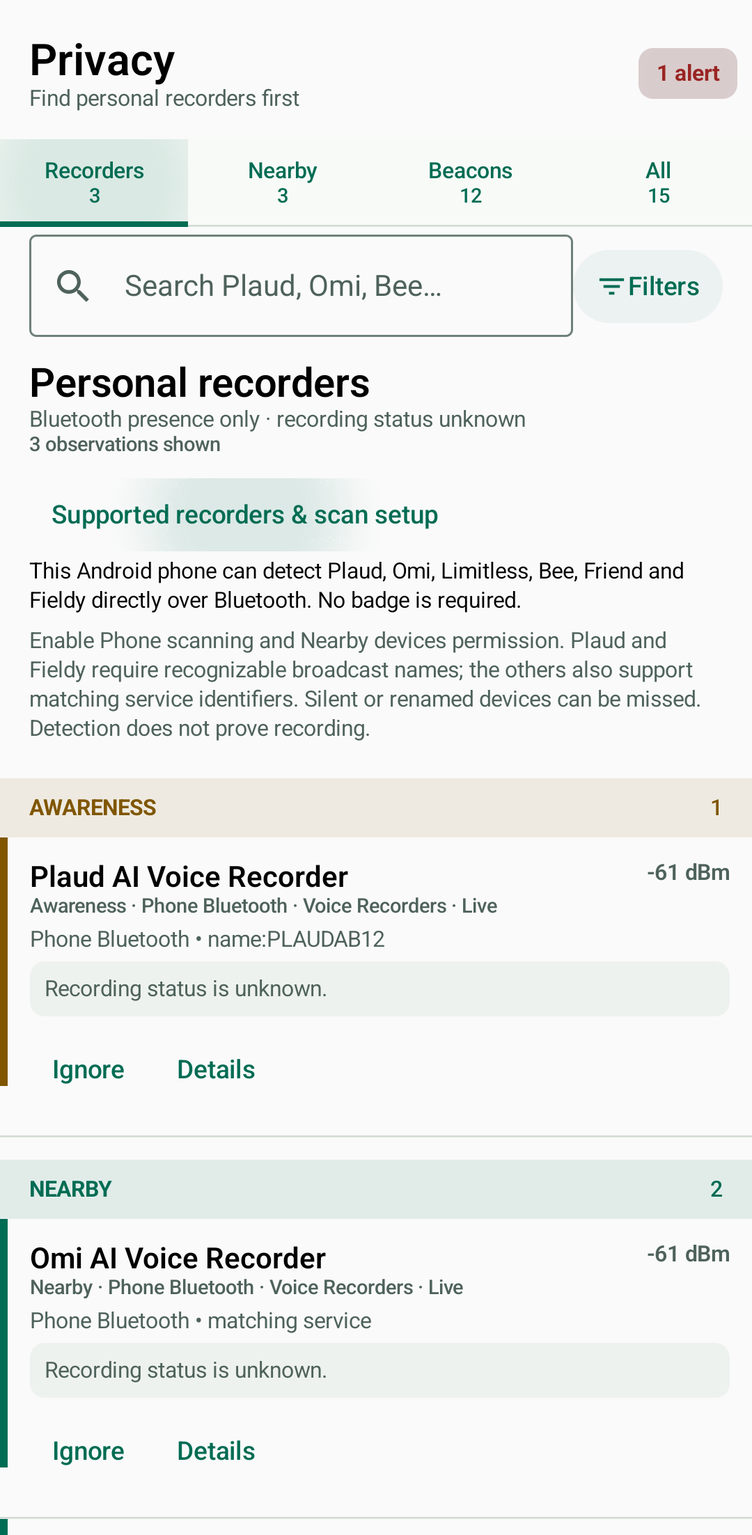
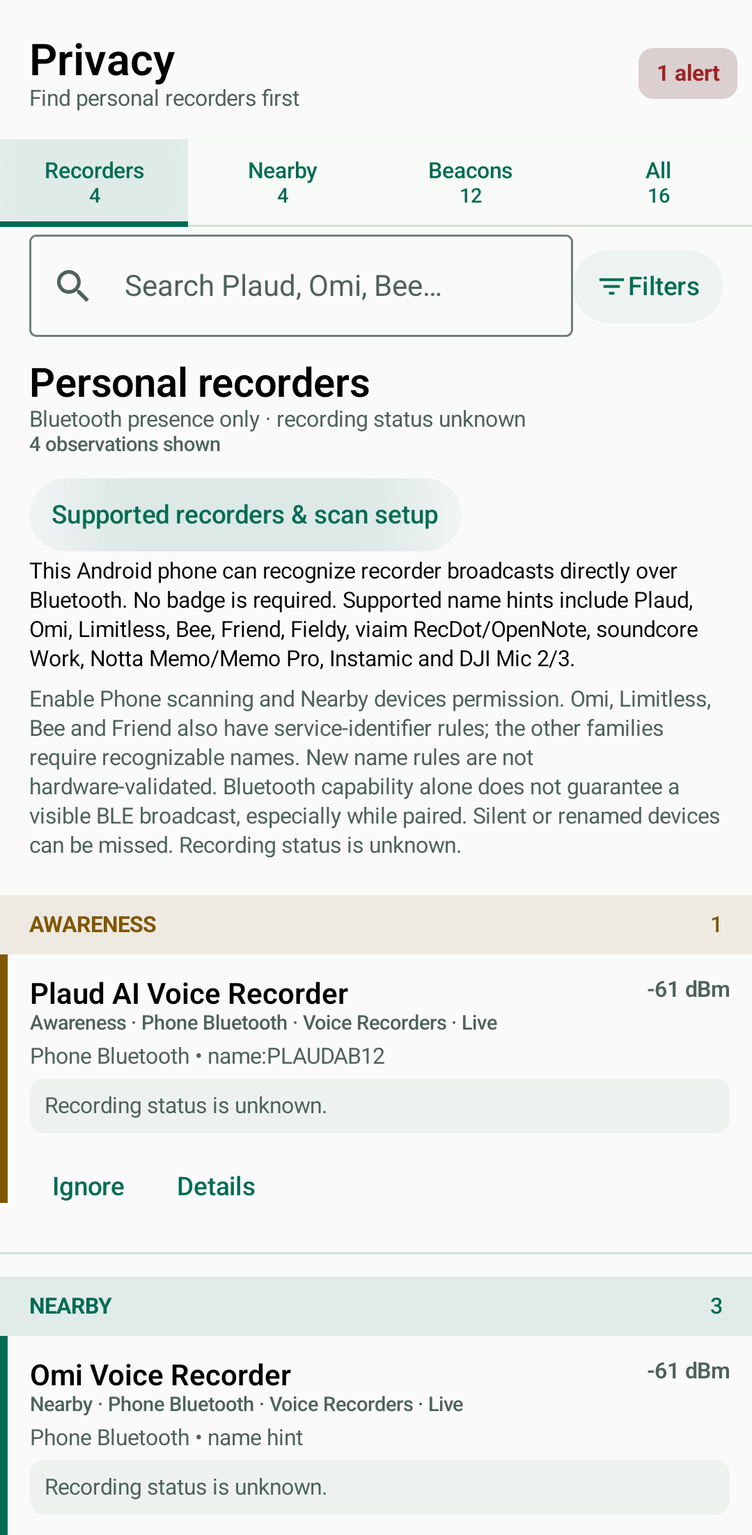
privacy: recognize more personal audio recorder families

Changed region(s): [[0.0, 0.3084, 1.0, 1.0]]

diff --git a/android/app/src/test/java/com/friendorfoe/detection/PersonalRecorderSignaturesTest.kt b/android/app/src/test/java/com/friendorfoe/detection/PersonalRecorderSignaturesTest.kt
@@ -7,7 +7,19 @@ class PersonalRecorderSignaturesTest {
     @Test fun `recorder names use boundaries and ignore case`() {
         val examples = mapOf("PLAUDAB12" to "Plaud", "PLAUD NOTE" to "Plaud", "Plaud Note Pro" to "Plaud",
             "NotePin_123" to "Plaud", "omi" to "Omi", "Limitless Pendant" to "Limitless",
-            "Bee_AB12" to "Bee", "friend_123" to "Friend", "Fieldy" to "Fieldy")
+            "Bee_AB12" to "Bee", "friend_123" to "Friend", "Fieldy" to "Fieldy",
+            "viaim RecDot" to "viaim",
+            "VIAIM OpenNote" to "viaim",
+            "soundcore Work" to "soundcore",
+            "soundcore Work_AB12" to "soundcore",
+            "Notta Memo" to "Notta",
+            "Notta Memo Pro" to "Notta",
+            "Instamic BLE" to "Instamic",
+            "Instamic 01" to "Instamic",
+            "DJI-MIC2-123456" to "DJI",
+            "DJI-MIC3-1234" to "DJI",
+            "DJI Mic 2" to "DJI",
+            "DJI Mic 3" to "DJI")
         for ((name, brand) in examples) {
             assertEquals(name, brand, PersonalRecorderSignatures.match(name)?.manufacturer)
         }
@@ -16,13 +28,44 @@ class PersonalRecorderSignaturesTest {
 
     @Test fun `unrelated names and shared UUIDs do not match`() {
         for (name in listOf("Pebblebee", "Beech", "Beeline", "Friend", "Friendly Speaker",
-            "Pendant", "Compass", "My PLAUD phone", "Plaudify", "Fieldyard", "OMIRON")) {
+            "Pendant", "Compass", "My PLAUD phone", "Plaudify", "Fieldyard", "OMIRON",
+            "viaim",
+            "viaim Air",
+            "viaim Nano+",
+            "viaim RecDotty",
+            "soundcore",
+            "soundcore Liberty 4",
+            "soundcore Workout",
+            "Anker",
+            "Notta",
+            "Notta Memories",
+            "Instamicrophone",
+            "DJI",
+            "DJI Mini 3",
+            "DJI-MIC20",
+            "DJI-MIC30",
+            "DJI-MICX-XXXX",
+            "DJI Mic Mini",
+            "Zoom",
+            "F2",
+            "F2(1)",
+            "Looki",
+            "Looki L1")) {
             assertNull(name, PersonalRecorderSignatures.match(name))
         }
         for (uuid in listOf("00001910-0000-1000-8000-00805f9b34fb",
             "4fafc201-1fb5-459e-8fcc-c5c9c331914b", "0000180f-0000-1000-8000-00805f9b34fb")) {
             assertNull(PersonalRecorderSignatures.match(null, listOf(uuid)))
         }
+    }
+
+    @Test fun `microphone model overrides only DJI company evidence`() {
+        val mic = PersonalRecorderSignatures.match("DJI-MIC2-123456")!!
+        assertTrue(PersonalRecorderSignatures.shouldReplace(mic, 0.80f, "DJI", "mfr_cid:0x0413"))
+        assertFalse(PersonalRecorderSignatures.shouldReplace(mic, 0.90f, "DJI", "name:DJI-Mavic"))
+        assertFalse(PersonalRecorderSignatures.shouldReplace(mic, 0.90f, "Apple", "airtag_separated"))
+        assertFalse(PersonalRecorderSignatures.shouldReplace(mic, 0.90f, "Meta", "uuid16:0xFEAA"))
+        assertTrue(PersonalRecorderSignatures.shouldReplace(mic, 0f, "", ""))
     }
 
     @Test fun `custom services detect unnamed devices and beat mutable names`() {

diff --git a/android/app/src/androidTest/java/com/friendorfoe/presentation/privacy/PrivacyScreenTest.kt b/android/app/src/androidTest/java/com/friendorfoe/presentation/privacy/PrivacyScreenTest.kt
@@ -37,9 +37,9 @@ class PrivacyScreenTest {
             finding(FindingSeverity.NEARBY, "beacon$index", category = PrivacyCategory.VENUE_BEACON).copy(
                 title = "iBeacon $index", beaconUuid = "00112233-4455-6677-8899-aabbccddeeff")
         }
-        val otherRecorders = listOf("Omi", "Bee").map { brand ->
+        val otherRecorders = listOf("Omi", "Bee", "Instamic").map { brand ->
             finding(FindingSeverity.NEARBY, brand.lowercase(), category = PrivacyCategory.VOICE_RECORDER).copy(
-                title = "$brand AI Voice Recorder", evidence = "Phone Bluetooth • matching service",
+                title = "$brand Voice Recorder", evidence = "Phone Bluetooth • name hint",
                 limitation = "Recording status is unknown.")
         }
         val current = PrivacyCurrentState(emptyList(), listOf(recorder) + otherRecorders + beacons, 1, emptyList(), true)
@@ -64,7 +64,11 @@ class PrivacyScreenTest {
         compose.onNodeWithTag("finding_plaud").assertIsDisplayed()
         compose.onNodeWithTag("privacy_filters").performClick()
         compose.onNodeWithText("Live only").performClick()
-        compose.onNodeWithTag("privacy_brand_Plaud").performClick()
+        compose.onNodeWithTag("privacy_brand_Instamic").performScrollTo().performClick()
+        compose.runOnIdle { assertEquals("Instamic", filters.value.query) }
+        compose.onNodeWithTag("finding_instamic").assertExists()
+        saveBeaconScreenshot("recorders-new-brand-filter.png")
+        compose.onNodeWithTag("privacy_brand_Plaud").performScrollTo().performClick()
         compose.onNodeWithTag("finding_plaud").assertExists()
         compose.runOnIdle { assertEquals("Plaud", filters.value.query) }
         compose.onNodeWithTag("privacy_focus_RECORDERS").assertIsDisplayed()
@@ -78,8 +82,8 @@ class PrivacyScreenTest {
         compose.onNodeWithTag("finding_plaud").assertExists()
         compose.onNodeWithTag("privacy_tree_beacons").assertDoesNotExist()
         compose.onNodeWithTag("recorder_coverage").performClick()
-        compose.onNodeWithTag("privacy_content").performScrollToNode(hasText("This Android phone can detect", substring = true))
-        compose.onNodeWithText("This Android phone can detect", substring = true).assertIsDisplayed()
+        compose.onNodeWithTag("privacy_content").performScrollToNode(hasText("This Android phone can recognize", substring = true))
+        compose.onNodeWithText("This Android phone can recognize", substring = true).assertIsDisplayed()
         saveBeaconScreenshot("recorders-phone-coverage.png")
         compose.onNodeWithTag("privacy_content").performScrollToNode(hasTestTag("recorder_coverage"))
         compose.onNodeWithTag("recorder_coverage").performClick()

diff --git a/android/app/src/main/java/com/friendorfoe/presentation/privacy/PrivacyScreen.kt b/android/app/src/main/java/com/friendorfoe/presentation/privacy/PrivacyScreen.kt
@@ -2,6 +2,7 @@ package com.friendorfoe.presentation.privacy
 
 import androidx.compose.animation.AnimatedVisibility
 import android.app.Activity
+import com.friendorfoe.detection.PersonalRecorderSignatures
 import com.friendorfoe.presentation.components.FofDisclosure
 import android.bluetooth.BluetoothAdapter
 import android.content.Intent
@@ -651,7 +652,7 @@ private fun PrivacySearchAndFilters(
                 if (state.filters.focus == PrivacyFocus.RECORDERS) {
                     Text("Recorder brand", style = MaterialTheme.typography.labelMedium)
                     Row(Modifier.fillMaxWidth().horizontalScroll(rememberScrollState()), horizontalArrangement = Arrangement.spacedBy(8.dp)) {
-                        listOf("Plaud", "Omi", "Limitless", "Bee", "Friend", "Fieldy").forEach { brand ->
+                        PersonalRecorderSignatures.brands.forEach { brand ->
                             val selected = state.filters.query.equals(brand, ignoreCase = true)
                             FilterChip(selected = selected,
                                 onClick = { actions.onQueryChanged(if (selected) "" else brand) },
@@ -1072,9 +1073,9 @@ private fun RecorderCoverage() {
             Text("Supported recorders & scan setup")
         }
         if (expanded) {
-            Text("This Android phone can detect Plaud, Omi, Limitless, Bee, Friend and Fieldy directly over Bluetooth. No badge is required.",
+            Text("This Android phone can recognize recorder broadcasts directly over Bluetooth. No badge is required. Supported name hints include Plaud, Omi, Limitless, Bee, Friend, Fieldy, viaim RecDot/OpenNote, soundcore Work, Notta Memo/Memo Pro, Instamic and DJI Mic 2/3.",
                 style = MaterialTheme.typography.bodySmall)
-            Text("Enable Phone scanning and Nearby devices permission. Plaud and Fieldy require recognizable broadcast names; the others also support matching service identifiers. Silent or renamed devices can be missed. Detection does not prove recording.",
+            Text("Enable Phone scanning and Nearby devices permission. Omi, Limitless, Bee and Friend also have service-identifier rules; the other families require recognizable names. New name rules are not hardware-validated. Bluetooth capability alone does not guarantee a visible BLE broadcast, especially while paired. Silent or renamed devices can be missed. Recording status is unknown.",
                 modifier = Modifier.padding(vertical = 8.dp), style = MaterialTheme.typography.bodySmall,
                 color = MaterialTheme.colorScheme.onSurfaceVariant)
         }

diff --git a/android/app/src/main/java/com/friendorfoe/detection/PersonalRecorderSignatures.kt b/android/app/src/main/java/com/friendorfoe/detection/PersonalRecorderSignatures.kt
@@ -13,7 +13,20 @@ internal object PersonalRecorderSignatures {
         Signature("Bee", listOf("bee"), "03d5d5c4-a86c-11ee-9d89-8f2089a49e7e"),
         Signature("Friend", listOf("friend_"), "1a3fd0e7-b1f3-ac9e-2e49-b647b2c4f8da"),
         Signature("Fieldy", listOf("fieldy"), null),
+        Signature("viaim", listOf("viaim recdot", "viaim opennote"), null),
+        Signature("soundcore", listOf("soundcore work"), null),
+        Signature("Notta", listOf("notta memo"), null),
+        Signature("Instamic", listOf("instamic"), null),
+        Signature("DJI", listOf("dji-mic2", "dji-mic3", "dji mic 2", "dji mic 3"), null),
     )
+
+    val brands: List<String> = signatures.map { it.brand }
+
+    // A model-specific microphone name is more useful than DJI's company-only hint.
+    // This exception only applies to company evidence; other matches retain confidence ordering.
+    fun shouldReplace(match: Match, confidence: Float, manufacturer: String, reason: String): Boolean =
+        match.confidence > confidence || (match.manufacturer == "DJI" &&
+            manufacturer == "DJI" && reason.startsWith("mfr_cid:"))
 
     fun match(name: String?, services: List<String> = emptyList()): Match? {
         for (signature in signatures) {

diff --git a/android/app/src/main/java/com/friendorfoe/detection/GlassesDetector.kt b/android/app/src/main/java/com/friendorfoe/detection/GlassesDetector.kt
@@ -1692,7 +1692,7 @@ class GlassesDetector @Inject constructor(
         PersonalRecorderSignatures.match(deviceName,
             serviceUuids.orEmpty().map { it.uuid.toString() } +
                 serviceData.orEmpty().keys.map { it.uuid.toString() })?.let { match ->
-            if (match.confidence > bestConf) {
+            if (PersonalRecorderSignatures.shouldReplace(match, bestConf, bestMfr, bestReason)) {
                 bestConf = match.confidence
                 bestMfr = match.manufacturer
                 bestType = "AI Voice Recorder"

diff --git a/esp32/test/test_detection_policy.c b/esp32/test/test_detection_policy.c
@@ -1154,7 +1154,19 @@ void test_ble_meta_reacquire_requires_scan_sync_and_adv_delta(void)
 void test_ble_personal_recorder_names(void)
 {
     const char *names[] = {"PLAUDAB12", "PLAUD NOTE", "Plaud Note Pro", "NotePin_123", "omi",
-        "Limitless Pendant", "Bee_AB12", "friend_123", "Fieldy"};
+        "Limitless Pendant", "Bee_AB12", "friend_123", "Fieldy",
+        "viaim RecDot",
+        "VIAIM OpenNote",
+        "soundcore Work",
+        "soundcore Work_AB12",
+        "Notta Memo",
+        "Notta Memo Pro",
+        "Instamic BLE",
+        "Instamic 01",
+        "DJI-MIC2-123456",
+        "DJI-MIC3-1234",
+        "DJI Mic 2",
+        "DJI Mic 3"};
     for (size_t i = 0; i < sizeof(names) / sizeof(names[0]); i++) {
         uint8_t adv[64] = {0};
         size_t len = strlen(names[i]);
@@ -1167,13 +1179,56 @@ void test_ble_personal_recorder_names(void)
         TEST_ASSERT_FALSE(fp.is_tracker);
         TEST_ASSERT_EQUAL(0, strncmp(fp.class_reason, "recorder:name:", 14));
     }
+    /* Company-only DJI hints must not turn a microphone into a drone controller. */
+    const char *mic = "DJI-MIC2-123456";
+    const uint16_t companies[] = {0x08AA, 0x2CA5};
+    for (size_t i = 0; i < sizeof(companies) / sizeof(companies[0]); i++) {
+        uint8_t adv[64] = {5, 0xff, companies[i] & 0xff, companies[i] >> 8, 0, 0};
+        size_t len = strlen(mic);
+        adv[6] = (uint8_t)(len + 1);
+        adv[7] = 0x09;
+        memcpy(adv + 8, mic, len);
+        ble_fingerprint_t fp;
+        ble_fingerprint_compute(adv, (int)len + 8, 1, 0, &fp);
+        TEST_ASSERT_EQUAL(BLE_DEV_AI_RECORDER, fp.device_type);
+        TEST_ASSERT_EQUAL_STRING("recorder:name:DJI", fp.class_reason);
+        ble_fingerprint_compute(adv, 6, 1, 0, &fp);
+        TEST_ASSERT_NOT_EQUAL(BLE_DEV_AI_RECORDER, fp.device_type);
+        /* Explicit Find My service evidence remains a tracker, even with this name. */
+        adv[len + 8] = 3; adv[len + 9] = 0x03;
+        adv[len + 10] = 0x44; adv[len + 11] = 0xFD;
+        ble_fingerprint_compute(adv, (int)len + 12, 1, 0, &fp);
+        TEST_ASSERT_NOT_EQUAL(BLE_DEV_AI_RECORDER, fp.device_type);
+    }
     TEST_ASSERT_TRUE(fof_policy_is_priority_ble_fingerprint("AI Voice Recorder"));
 }
 
 void test_ble_personal_recorder_false_positives(void)
 {
     const char *names[] = {"Pebblebee", "Beeline", "Beech", "Friend", "Friendly Speaker",
-        "Pendant", "Compass", "My PLAUD phone", "Plaudify", "Fieldyard", "OMIRON"};
+        "Pendant", "Compass", "My PLAUD phone", "Plaudify", "Fieldyard", "OMIRON",
+        "viaim",
+        "viaim Air",
+        "viaim Nano+",
+        "viaim RecDotty",
+        "soundcore",
+        "soundcore Liberty 4",
+        "soundcore Workout",
+        "Anker",
+        "Notta",
+        "Notta Memories",
+        "Instamicrophone",
+        "DJI",
+        "DJI Mini 3",
+        "DJI-MIC20",
+        "DJI-MIC30",
+        "DJI-MICX-XXXX",
+        "DJI Mic Mini",
+        "Zoom",
+        "F2",
+        "F2(1)",
+        "Looki",
+        "Looki L1"};
     for (size_t i = 0; i < sizeof(names) / sizeof(names[0]); i++) {
         uint8_t adv[64] = {0};
         size_t len = strlen(names[i]);

diff --git a/backend/tests/test_personal_recorders.py b/backend/tests/test_personal_recorders.py
@@ -10,6 +10,18 @@ from app.services.rf_identity import enrich_rf_evidence
     ("NotePin_123", "Plaud"), ("plaud-ab12", "Plaud"),
     ("omi", "Omi"), ("Limitless Pendant", "Limitless"),
     ("Bee_AB12", "Bee"), ("friend_1234", "Friend"), ("Fieldy", "Fieldy"),
+    ("viaim RecDot", "viaim"),
+    ("VIAIM OpenNote", "viaim"),
+    ("soundcore Work", "soundcore"),
+    ("soundcore Work_AB12", "soundcore"),
+    ("Notta Memo", "Notta"),
+    ("Notta Memo Pro", "Notta"),
+    ("Instamic BLE", "Instamic"),
+    ("Instamic 01", "Instamic"),
+    ("DJI-MIC2-123456", "DJI"),
+    ("DJI-MIC3-1234", "DJI"),
+    ("DJI Mic 2", "DJI"),
+    ("DJI Mic 3", "DJI"),
 ])
 def test_recorder_name_and_presentation(name, brand):
     match = match_personal_recorder(name)
@@ -22,6 +34,7 @@ def test_recorder_name_and_presentation(name, brand):
     rf = enrich_rf_evidence(source="ble_fingerprint", ble_name=name)
     assert rf["device_class"] == "voice_recorder"
     assert rf["device_family"] == "audio"
+    assert rf["brand"] == brand
 
 
 @pytest.mark.parametrize("uuid,brand", [
@@ -43,6 +56,28 @@ def test_custom_uuid_without_name_and_with_conflicting_name(uuid, brand):
 @pytest.mark.parametrize("name", [
     None, "", "Pebblebee", "Beech", "Beeline", "OMIRON", "Friend", "Friendly Speaker",
     "Pendant", "Compass", "My PLAUD phone", "Plaudify", "Fieldyard", "LimitlessTV",
+    "viaim",
+    "viaim Air",
+    "viaim Nano+",
+    "viaim RecDotty",
+    "soundcore",
+    "soundcore Liberty 4",
+    "soundcore Workout",
+    "Anker",
+    "Notta",
+    "Notta Memories",
+    "Instamicrophone",
+    "DJI",
+    "DJI Mini 3",
+    "DJI-MIC20",
+    "DJI-MIC30",
+    "DJI-MICX-XXXX",
+    "DJI Mic Mini",
+    "Zoom",
+    "F2",
+    "F2(1)",
+    "Looki",
+    "Looki L1",
 ])
 def test_unrelated_names_do_not_match(name):
     assert match_personal_recorder(name) is None

diff --git a/esp32/scanner/main/detection/ble_fingerprint.c b/esp32/scanner/main/detection/ble_fingerprint.c
@@ -198,6 +198,15 @@ static const char *recorder_name_brand(const char *name)
         {"bee", "Bee"},
         {"friend_", "Friend"},
         {"fieldy", "Fieldy"},
+        {"viaim recdot", "viaim"},
+        {"viaim opennote", "viaim"},
+        {"soundcore work", "soundcore"},
+        {"notta memo", "Notta"},
+        {"instamic", "Instamic"},
+        {"dji-mic2", "DJI"},
+        {"dji-mic3", "DJI"},
+        {"dji mic 2", "DJI"},
+        {"dji mic 3", "DJI"},
     };
     while (*name == ' ') name++;
     if (strlen(name) == 9 && strncasecmp(name, "plaud", 5) == 0 &&
@@ -1009,7 +1018,11 @@ void ble_fingerprint_compute(const uint8_t *data, int length,
 
     /* Do not replace tracker/drone/glasses evidence with a mutable name. */
     const char *name_brand = recorder_name_brand(local_name);
-    if (recorder_brand || (name_brand && fp->device_type == BLE_DEV_UNKNOWN)) {
+    /* DJI's company-only controller classification is not model evidence. */
+    bool dji_mic_name = name_brand && strcmp(name_brand, "DJI") == 0 &&
+        fp->device_type == BLE_DEV_DRONE_CONTROLLER && fp->class_reason[0] == '\0' &&
+        (company_id == DJI_COMPANY_ID || company_id == DJI_SIG_COMPANY_ID);
+    if (recorder_brand || (name_brand && fp->device_type == BLE_DEV_UNKNOWN) || dji_mic_name) {
         fp->device_type = BLE_DEV_AI_RECORDER;
         fp->is_tracker = false;
         snprintf(fp->class_reason, sizeof(fp->class_reason), "recorder:%s:%s",

diff --git a/backend/app/services/personal_recorders.py b/backend/app/services/personal_recorders.py
@@ -13,6 +13,11 @@ _SIGNATURES = [
     ("Bee", ["bee"], "03d5d5c4-a86c-11ee-9d89-8f2089a49e7e"),
     ("Friend", ["friend_"], "1a3fd0e7-b1f3-ac9e-2e49-b647b2c4f8da"),
     ("Fieldy", ["fieldy"], None),
+    ("viaim", ["viaim recdot", "viaim opennote"], None),
+    ("soundcore", ["soundcore work"], None),
+    ("Notta", ["notta memo"], None),
+    ("Instamic", ["instamic"], None),
+    ("DJI", ["dji-mic2", "dji-mic3", "dji mic 2", "dji mic 3"], None),
 ]
 _UUID_RE = re.compile(r"(?<![0-9a-z])[0-9a-f]{8}(?:-[0-9a-f]{4}){3}-[0-9a-f]{12}(?![0-9a-z])", re.I)
 

diff --git a/docs/personal-ai-recorders.md b/docs/personal-ai-recorders.md
@@ -10,8 +10,13 @@ Android BLE scanning, ESP32 fingerprinting/badge awareness, and backend RF ident
 | Bee | `Bee` | `03d5d5c4-a86c-11ee-9d89-8f2089a49e7e` |
 | Friend pendant | `friend_` | `1a3fd0e7-b1f3-ac9e-2e49-b647b2c4f8da` |
 | Fieldy | `Fieldy` | None used alone |
+| viaim RecDot / OpenNote | `viaim RecDot`, `viaim OpenNote` | Name hint only |
+| soundcore Work | `soundcore Work` | Name hint only |
+| Notta Memo / Memo Pro | `Notta Memo` (also covers the Pro suffix) | Name hint only |
+| Instamic | `Instamic` (including `Instamic BLE`, numbered devices) | Name hint only |
+| DJI Mic 2 / Mic 3 | `DJI-MIC2`, `DJI-MIC3`, `DJI Mic 2`, `DJI Mic 3` | Name hint only |
 
-Names must end after the listed token or continue with a space, hyphen, or underscore (the `friend_` prefix already includes its separator). `PLAUD` followed immediately by four alphanumeric serial-suffix characters is also recognized, consistent with the [Plaud interoperability protocol notes](https://github.com/naeemarsalan/opendict/blob/main/PLAUD_BLE_Protocol_Specification.md). Name-only evidence has confidence 0.75; custom service evidence has confidence 0.90. Service evidence wins over a conflicting recorder name. Firmware keeps existing tracker/drone/glasses classifications over name-only hints. These confidence scores are heuristic, not measured detection rates.
+Names must end after the listed token or continue with a space, hyphen, or underscore (the `friend_` prefix already includes its separator). `PLAUD` followed immediately by four alphanumeric serial-suffix characters is also recognized, consistent with the [Plaud interoperability protocol notes](https://github.com/naeemarsalan/opendict/blob/main/PLAUD_BLE_Protocol_Specification.md). Name-only evidence has confidence 0.75; custom service evidence has confidence 0.90. Service evidence wins over a conflicting recorder name. Firmware keeps existing tracker/drone/glasses classifications over name-only hints, except that a specific DJI microphone name replaces the generic DJI company-only controller guess. Android likewise prefers that model hint to its DJI company-only camera guess. These confidence scores are heuristic, not measured detection rates.
 
 ## Evidence and limits
 
@@ -23,15 +28,27 @@ Only advertised service lists or service-data UUIDs can be detected passively. A
 
 Presence does **not** establish active recording, audio content, uploading, wearer identity, or malicious intent. UI details explicitly leave recording status unknown. No connection, pairing, microphone access, or recording command is performed.
 
-Other candidates for future capture-based signatures include HiDock/HiNotes, iFLYTEK, Mobvoi TicNote, soundcore Work, and Senstone. They are not classified by guessed names or shared chipset identifiers.
+### Additional name rules (2026-10-13)
+
+These are conservative **name heuristics, not hardware-validated BLE signatures**. Documentation can show an app label or a classic Bluetooth pairing name without establishing the actual BLE local name. The rules only run if a matching name reaches the scanner; no new manufacturer IDs, service UUIDs, or claim of always-on discoverability is introduced.
+
+- viaim documents [RecDot/OpenNote connection names](https://store.viaim.ai/blogs/user-guide/how-to-connect-your-viaim-earbuds) and [onboard recording](https://store.viaim.ai/blogs/user-guide/recording-guide-to-viaim-earbuds). Only those model names match; bare viaim, Air and Nano+ do not.
+- soundcore's [Work connection guide](https://service.soundcore.com/article-description/How-do-I-connect-the-soundcore-Work-recorder-to-the-soundcore-app) shows the app discovery label. This is not a captured BLE advertising name. Ordinary soundcore headphones and Anker devices do not match.
+- Notta's [connection troubleshooting](https://support.notta.ai/hc/en-us/articles/37703235998235-Troubleshooting-Unable-to-find-Notta-Memo-in-the-Notta-App) documents the Memo system name; its [binding guide](https://support.notta.ai/hc/en-us/articles/38026112614683-Bind-and-Activate-an-AI-Voice-Recorder-Mobile-App) includes Memo Pro. A device connected to another phone may not appear.
+- Instamic's [configuration guide](https://zoomcorp.com/media/documents/Instamic_Configuration_Modes_and_Profiles_rev.202510.pdf) shows `Instamic BLE` and numbered names. Users can rename units. Bluetooth audio streaming and local recording are separate modes.
+- DJI's [Mic 2 manual](https://dl.djicdn.com/downloads/DJI_Mic_2/UM_/DJI_Mic_2__User_Manual_V1.0_EN.pdf) shows `DJI-MIC2-XXXXXX`; the [Mic 3 manual](https://dl.djicdn.com/downloads/DJI%20Mic%203/202604/DJI_MIC3_um_en.pdf) uses the schematic `DJI-MICX-XXXX`. We recognize model 2/3 name hints, not literal placeholder X or arbitrary DJI devices. Mic 3's on-air name still needs capture validation. These pairing examples do not prove passive BLE visibility. Mic 2 cannot internally record while connected to a smartphone over Bluetooth. DJI Mic Mini is excluded from the standalone-recorder rules.
+
+Looki L1 remains unsupported: no reliable passive identifier was established, and its [FAQ](https://support.looki.ai/hc/en-001/articles/49659915480217-General-FAQs) says paired units are undiscoverable to another phone. Zoom F2-BT also awaits a capture: its [control manual](https://zoomcorp.com/documents/1857/E_F2_Control_.pdf) shows generic `F2` / `F2(1)` labels that are not distinctive enough. Neither a marketing model name nor Bluetooth capability alone establishes a signature. Tascam DR-10L Pro (optional Bluetooth adapter), HiDock/HiNotes, iFLYTEK, Mobvoi TicNote and Senstone remain capture candidates.
+
+Before claiming physical-device coverage, capture BLE advertisements with units unpaired, paired, idle and recording. Include full/short local names, advertised services and manufacturer payloads, and document which modes expose no usable signal.
 
 ## Maintenance
 
-Keep `PersonalRecorderSignatures.kt`, `personal_recorders.py`, and the recorder helpers in `ble_fingerprint.c` aligned. Tests cover all six families, custom UUID byte order, complete/incomplete/service-data advertisements, truncation, close UUID mismatches, ambiguous names and services, backend presentation, and badge awareness. Hardware validation should capture advertisements in pairing, idle, recording, and connected states before claiming model-specific coverage.
+Keep `PersonalRecorderSignatures.kt`, `personal_recorders.py`, and the recorder helpers in `ble_fingerprint.c` aligned. Tests cover all eleven families, custom UUID byte order, complete/incomplete/service-data advertisements, truncation, close UUID mismatches, ambiguous names and services, backend presentation, and badge awareness. Hardware validation should capture advertisements in pairing, idle, recording, and connected states before claiming model-specific coverage.
 
 ## Android browsing (v0.67.31)
 
-The Privacy screen opens on Recorders, with persistent Recorders, Nearby, Beacons, and All tabs and observation counts. The selected tab survives saved-state recreation. Search, brand shortcuts (Plaud, Omi, Limitless, Bee, Friend, Fieldy), categories, sources, live-only, and attention-only filters refine that tab. Clearing filters stays in the tab; switching tabs clears refinements and returns to the top. Nearby hides routine beacon observations but keeps elevated beacon warnings. An alerts shortcut opens attention-only results across all categories. None of these controls disables scanning or changes alert rules.
+The Privacy screen opens on Recorders, with persistent Recorders, Nearby, Beacons, and All tabs and observation counts. The selected tab survives saved-state recreation. Search, brand shortcuts (generated from the recorder signature catalog), categories, sources, live-only, and attention-only filters refine that tab. Clearing filters stays in the tab; switching tabs clears refinements and returns to the top. Nearby hides routine beacon observations but keeps elevated beacon warnings. An alerts shortcut opens attention-only results across all categories. None of these controls disables scanning or changes alert rules.
 
 When no recorders match, the page explains the detection limits rather than substituting beacons. The Recorders tab offers one-tap phone scan activation when Phone Bluetooth scanning is paused. Brand shortcuts use the same plain-language search as the text field; they are identification hints, not authenticated manufacturer identities.
 
@@ -41,5 +58,6 @@ The on-screen “Phone Bluetooth detects AI recorders” explanation lists suppo
 
 Emulator screenshots use synthetic findings to demonstrate the UI, not physical-device detections:
 
+![Expanded recorder brand filter](screenshots/privacy-recorders/expanded-brand-filter.png)
 ![Phone recorder coverage and filter](screenshots/privacy-recorders/phone-coverage.png)
 ![Grouped iBeacon network](screenshots/privacy-recorders/ibeacon-networks.png)
